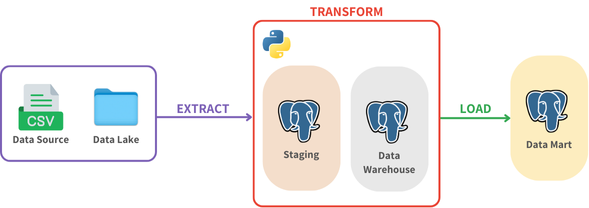
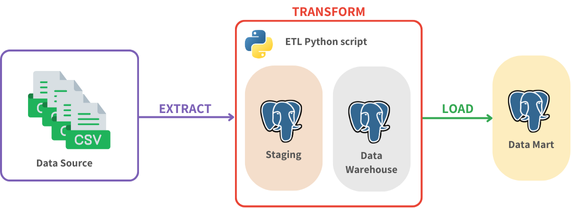
change readme

Changed region(s): [[0.0, 0.0865, 0.8336, 1.0], [0.8336, 0.2885, 0.9825, 0.8365], [0.5061, 0.0288, 0.655, 0.0865]]

diff --git a/README.md b/README.md
@@ -1,0 +1,26 @@
+# Attendance ETL Pipeline
+
+## Introduction
+The project shows the data pipeline of a univesity attendance. The source is a four CSV files consist of the courses, student enrollment, courses schedule, and student attendance details. The data need to be ingested and transform into the data warehouse and data mart using a Python script.
+
+## Architecture
+![Architecture](img/local_pipeline.png)
+
+## Technologies
+- Python
+- PostgreSQL
+- Docker
+
+## Getting Started
+1. Clone the repository.
+   ```
+   git clone https://github.com/alyamutiara/attendance-etl-pipeline.git
+   ```
+2. Navigate to the project directory.
+   ```
+   cd attendance-etl-pipeline
+   ```
+3. Run Docker Compose to spin up the services.
+   ```
+   docker compose up
+   ```
